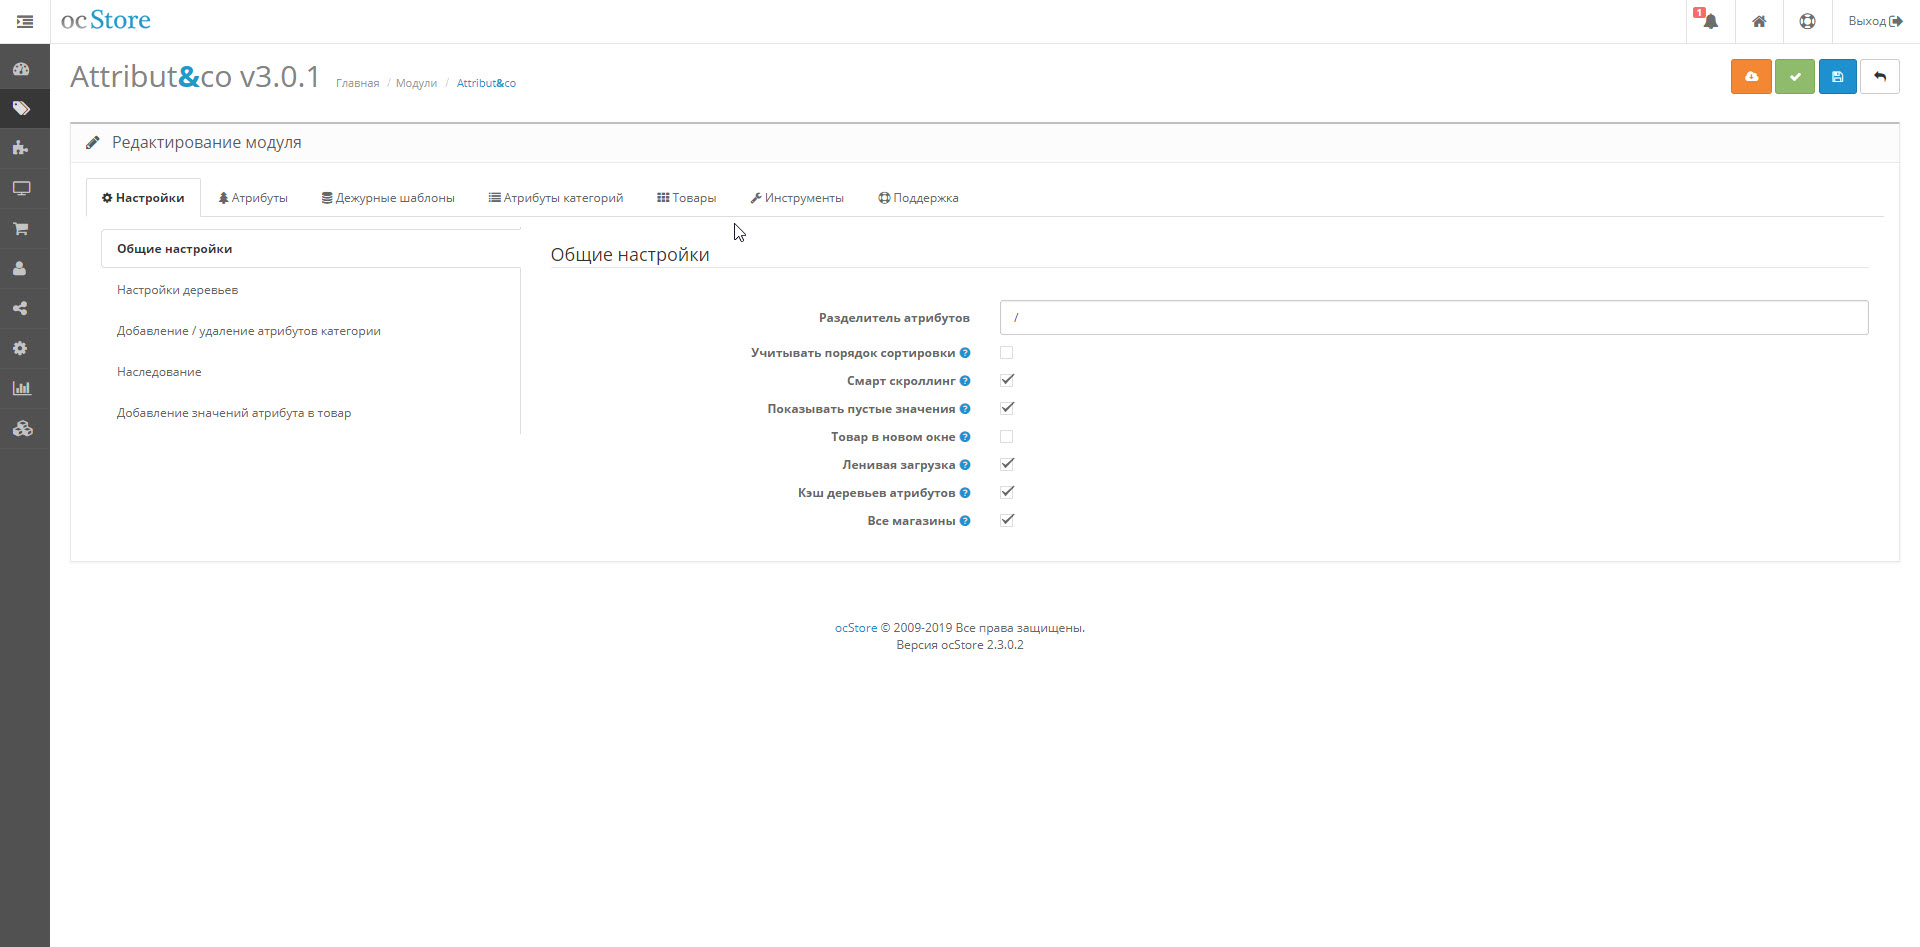
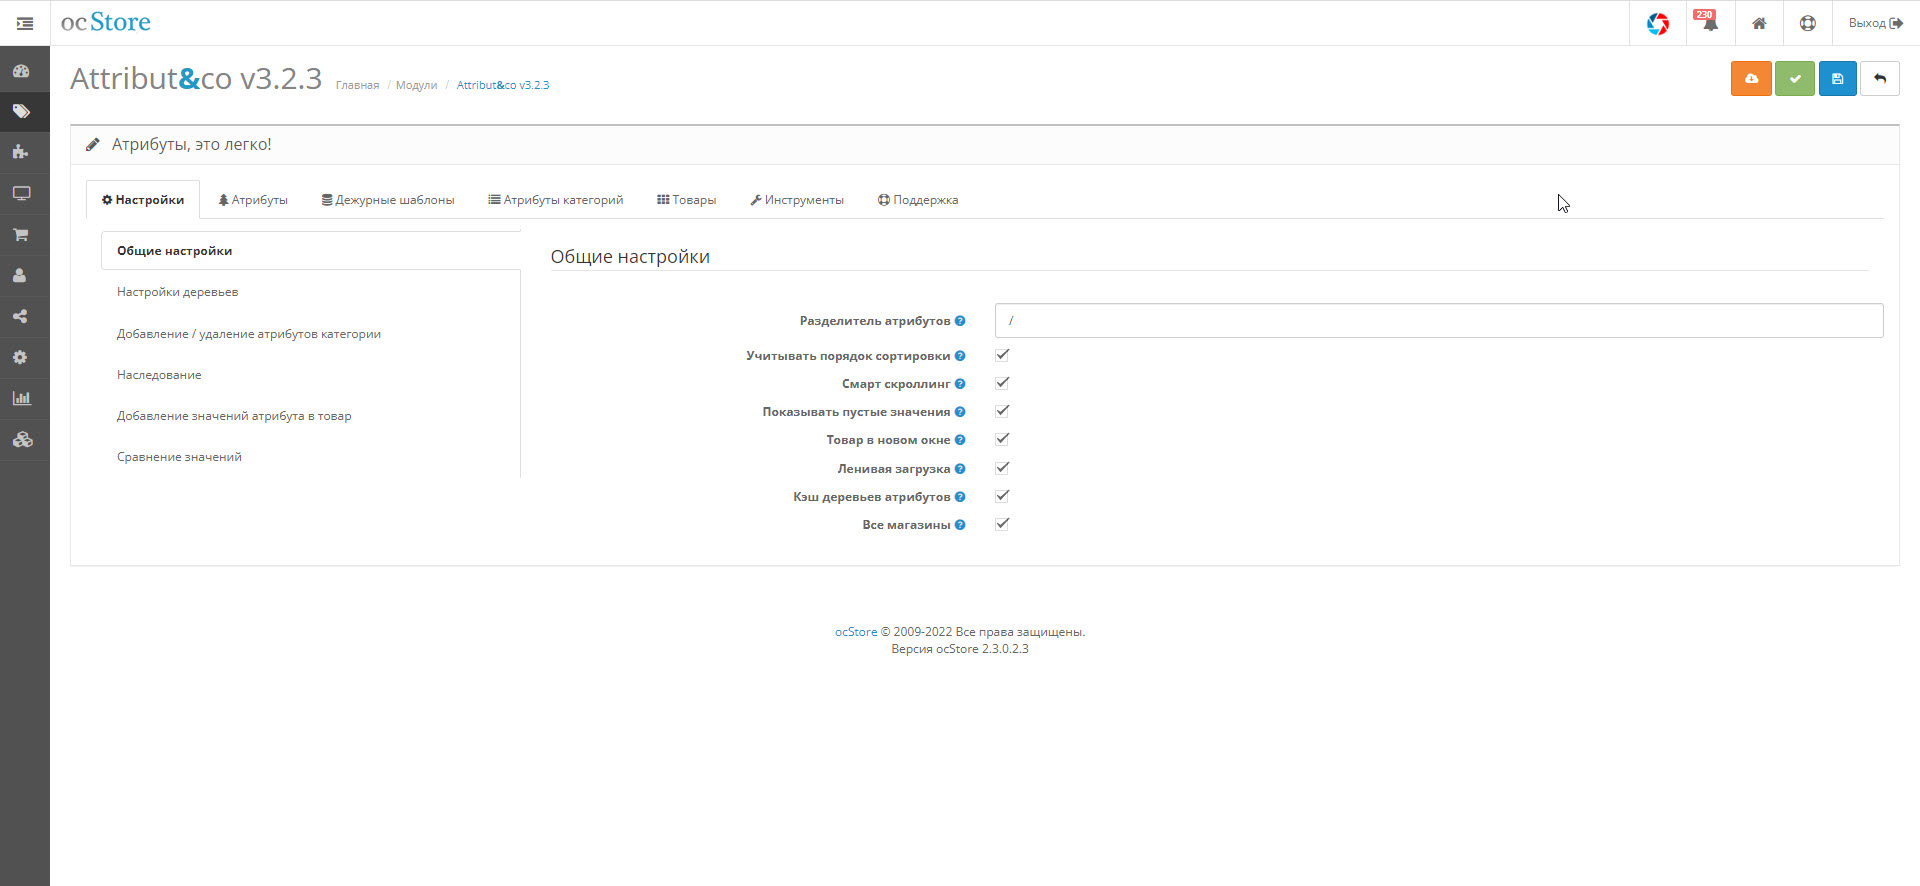
New version

diff --git a/doc/ru/using.html b/doc/ru/using.html
@@ -206,10 +206,10 @@
                         data-alt="Deleting multiple values"
                         class="img-thumbnail img-responsive mb-3">
                 </div>                
-                <p>Чтобы избежать неоднозначности, в модуле предусмотрено два режима удаления <span class="node">Значений</span> - по точному совпадению и по вхождению подстроки в строку.</p>
-                <p>Удаление по точному совпаденю будет происходить если удаляется <span class="node">Шаблон</span> (узлы с родителем <span class="node">Шаблоны</span>).</p>
-                <p>Удаление по вхождению подстроки в строку будет происходить если удаляется <span class="node">Значение</span> (узлы с родителем <span class="node">Значения</span>).</p>
-                <p>В превом случае удаления не произойдет, во втором <span class="node">Атрибут</span> будет удален.</p>
+                <p>Чтобы избежать неоднозначности, в модуле предусмотрено несколько режимов удаления.</p>
+                <p>Удаление <span class="node">Шаблонов</span> (узлы с родителем <span class="node">Шаблоны</span>) всегда делается по точному совпадению поля в товаре и всего <span class="node">Шаблона</span>.</p>
+                <p>Удаление <span class="node">Значений</span> (узлы с родителем <span class="node">Значения</span>) зависит от настройки <a href="settings.html#settings-compare">Сравнение значений</a></p>
+                <p>В любом случае, это удаление по вхождению образца (<span class="node">Значения</span>) в поле в товаре. Настройка позволяет сравнивать с образцом каждое <span class="node">Значение</span>, записанное через разделитель.</p>                
                 <ul id="gallery_using_6" class="hes-gallery list-unstyled row" data-wrap="true" data-img-count="2">
                     <li class="col-xs-6 col-md-6">
                         <img src="/img/help/attributico/product4.jpg" 

diff --git a/doc/ru/settings.html b/doc/ru/settings.html
@@ -272,7 +272,7 @@
                 <h2 id="settings-compare">Сравнение значений.</h2>
                 <p>Эта настройка определяет алгоритм обновления <span class="node">Значений</span> после их редактирования.</p>
                 <div class="hes-gallery" data-wrap="true" data-img-count="1">
-                    <img src="/img/help/attributico/replacemode.jpg" 
+                    <img src="/img/help/attributico/comparemode.jpg" 
                         alt="Editing and replacement mode" 
                         data-subtext="Editing and replacement mode"  
                         data-alt="Editing and replacement mode"
@@ -294,6 +294,7 @@
                 в дереве товаров будут выведены товары со <span class="node">Значениями</span> <code>20</code>, <code>120</code>, <code>200</code>.</p>
                 <p>Если же установлен режим "По точному совпадению", то при нажатии на <span class="node">Значение атрибута</span> <code>20</code>,
                     в дереве товаров будут выведены товары только со <span class="node">Значениями</span> <code>20</code>.</p>
+                <p>От этой настройки зависит также <a href="using.html#using-value">удаление значений</a>.</p>
                 <h2 id="settings-dialog">Оперативное изменение настроек.</h2>
                 <p>Некоторые настройки можно изменять оперативно, в процессе работы. По окончании работы они не сохраняются.</p>
                 <p>Если в <a href="using.html#using-context-menu">контекстном меню</a> выбрать пункт "Настройки", то появится <a href="using.html#using-dialog">диалоговое окно</a> управления деревом.</p>

diff --git a/doc/ru/history.html b/doc/ru/history.html
@@ -17,6 +17,12 @@
                 <div class="page-header">
                     <h1 id="history">История изменений.</h1>
                 </div>
+                <p class="lead">Версия 3.2.3.</p>
+                <ul>
+                    <li>Удаление Значений теперь так же зависит от настройки "Сравнение значений";</li>
+					<li>Исправлена ошибка клонирования;</li>
+					<li>Исправлена ошибка обрезания значений содержащих кавычки;</li>	                    		    			                
+                </ul>
                 <p class="lead">Версия 3.2.2.</p>
                 <ul>
                     <li>Настройка "Редактирование значений" изменена на "Сравнение значений" и теперь

diff --git a/check_for_updates.php b/check_for_updates.php
@@ -6,9 +6,9 @@ $responce = array(
 	'news' => '<h4>Есть обновления!</h4> 
 				<p class="lead">Версия' . LAST_VERSION .'.</p>
 				<ul>
-				<li>Настройка "Редактирование значений" изменена на "Сравнение значений" и теперь
-				влияет не только на режим редактирования значений, но и на выборку товаров, 
-				соответствующих определенному Значению атрибута;</li>							                
+					<li>Удаление Значений теперь так же зависит от настройки "Сравнение значений";</li>
+					<li>Исправлена ошибка клонирования;</li>
+					<li>Исправлена ошибка обрезания значений содержащих кавычки;</li>							                
 				</ul>',
 	'well' => '<p class="lead">Вы используете последнюю версию модуля <span> Attribut<b style="color: #2199C7;">&</b>co</span> !</p>',
 	'links' => '<div class="form-group">
@@ -20,7 +20,7 @@ $responce = array(
 					</ul>								
 				</div>',
 	'copyright' => '<strong>Документация:</strong> <a href="http://attributico.su/doc/ru/attributico.html">http://attributico.su/doc/ru/attributico.html</a><br/>
-					<p>Copyright &copy; 2016-2021&nbsp; Comtronics</p>',
+					<p>Copyright &copy; 2016-2022&nbsp; Comtronics</p>',
 );
 
 echo json_encode($responce);

diff --git a/config.php b/config.php
@@ -1,5 +1,5 @@
 <?php
 
-define ('VERSION', 'Currently v3.2.2');
-define ('VERSION_SHORT', 'v3.2.2');
-define ('LAST_VERSION', 'v3.2.2');
+define ('VERSION', 'Currently v3.2.3');
+define ('VERSION_SHORT', 'v3.2.3');
+define ('LAST_VERSION', 'v3.2.3');
